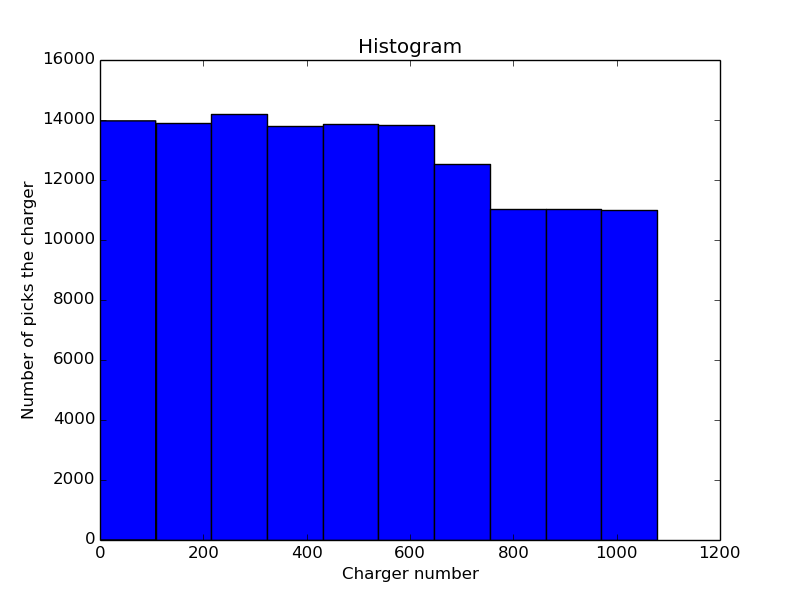
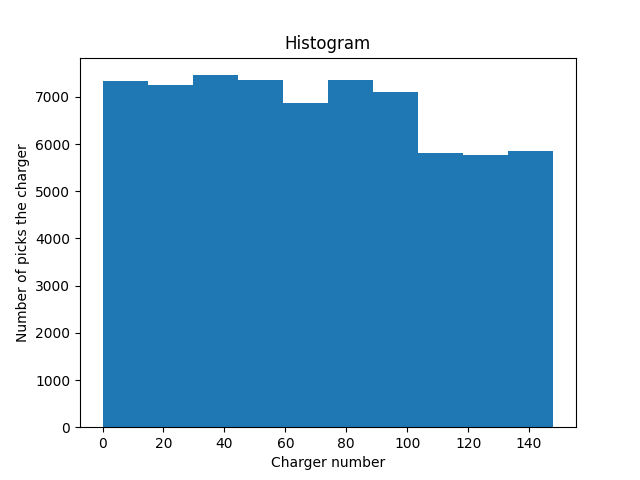
configuration file

diff --git a/ModelConfiguration.py b/ModelConfiguration.py
@@ -1,0 +1,54 @@
+import configparser
+import os
+
+import defines
+
+
+class ModeConfiguration:
+
+    __configuration: dict
+    __default_values = {
+        'cars': 10_000,
+        'chargers': 100,
+        'sim_len': 7
+    }
+    validated = False
+
+    def load(self):
+        config = configparser.ConfigParser()
+        config.read(os.path.join('config', 'config.ini'))
+
+        dictionary = {}
+        for section in config.sections():
+            dictionary[section] = {}
+            for option in config.options(section):
+                try:
+                    dictionary[section][option] = int(config.get(section, option))
+                except ValueError as ve:
+                    print('CONFIGURATION FILE IS NOT CORRECT!')
+                    print(f'ERROR: {ve}')
+                    exit(1)
+
+        self.__configuration = dictionary['ModelArgs']
+        return self
+
+    def enable_default(self):
+
+        for key, value in self.__default_values.items():
+            if not key in self.__configuration:
+                self.__configuration[key] = value
+        self.validated = True
+        return self
+
+    def initialize(self):
+        if not self.validated:
+            print('\n*********** WARNING ***********\n')
+            print('DEFAULT VALUES ARE NOT CONFIGURED\n')
+
+
+        defines.CHARGING_STATIONS_COUNT = self.__configuration['chargers']
+        defines.SIMULATION_LEN = self.__configuration['sim_len'] * 1 * defines.WEEKs
+        defines.CHARGING_ON_PUBLIC_STATION_COUNT = self.__configuration['cars']
+        defines.CHARGERS_IN_CITY_CENTRE = defines.CHARGING_STATIONS_COUNT * 0.65
+        defines.CHARGERS_OUTSIDE_CITY_CENTRE = defines.CHARGING_STATIONS_COUNT * 0.35
+        print(self.__configuration)

diff --git a/app.py b/app.py
@@ -1,26 +1,10 @@
 import defines
 from simulation import Simulation
-import argparse
-
-def parseArguments():
-    parser = argparse.ArgumentParser()
-    parser.add_argument("--cars", required=True, type=int, help="Number of cars that mostly charge on public charging station (not at home, work etc.)")
-    parser.add_argument("--chargers", required=True, type=int, help="Count of charging stations in City (Brno)")
-    parser.add_argument("--simlen", required=True, type=int, help="Simulation lenght in weeks")
-    return parser.parse_args()
-
-def initBaseSimData(argumets):
-    defines.CHARGING_STATIONS_COUNT = argumets.chargers
-    defines.SIMULATION_LEN = argumets.simlen * 1 * defines.WEEKs
-    defines.CHARGING_ON_PUBLIC_STATION_COUNT = argumets.cars
-    defines.CHARGERS_IN_CITY_CENTRE = defines.CHARGING_STATIONS_COUNT * 0.65
-    defines.CHARGERS_OUTSIDE_CITY_CENTRE = defines.CHARGING_STATIONS_COUNT * 0.35
+from ModelConfiguration import ModeConfiguration
 
 def main():
-    argumets = parseArguments()
-    initBaseSimData(argumets)
-    simulation = Simulation(simulation_end=defines.SIMULATION_LEN)
-    simulation.run()
+    ModeConfiguration().load().enable_default().initialize()
+    Simulation(simulation_end=defines.SIMULATION_LEN).run()
 
 if __name__ == '__main__':
     main()
